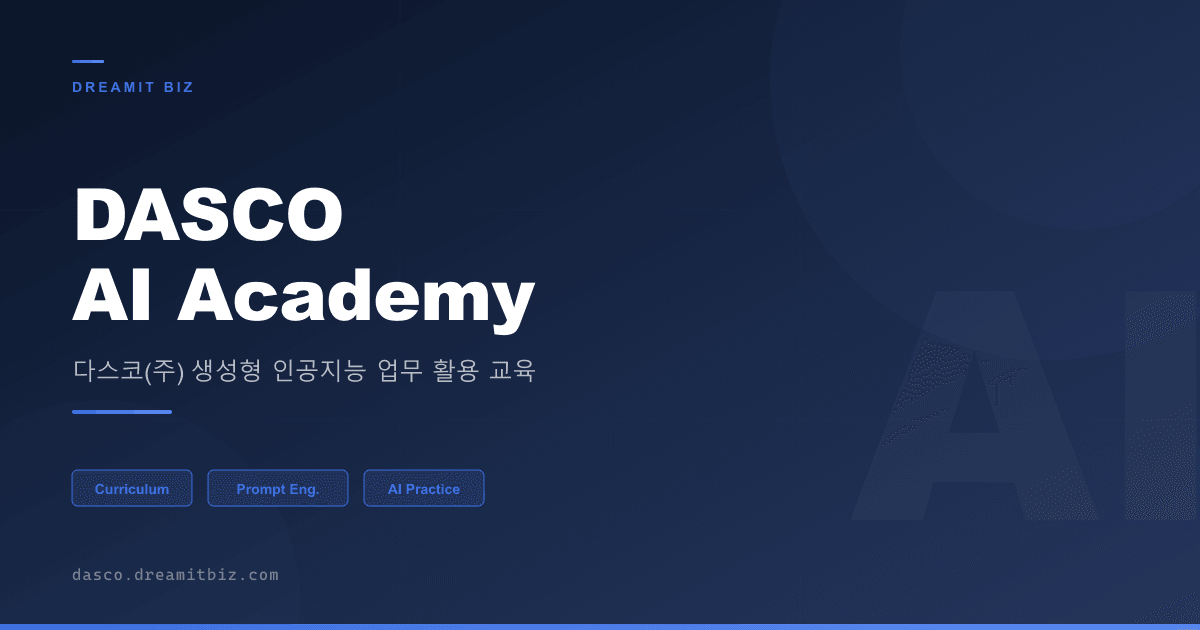
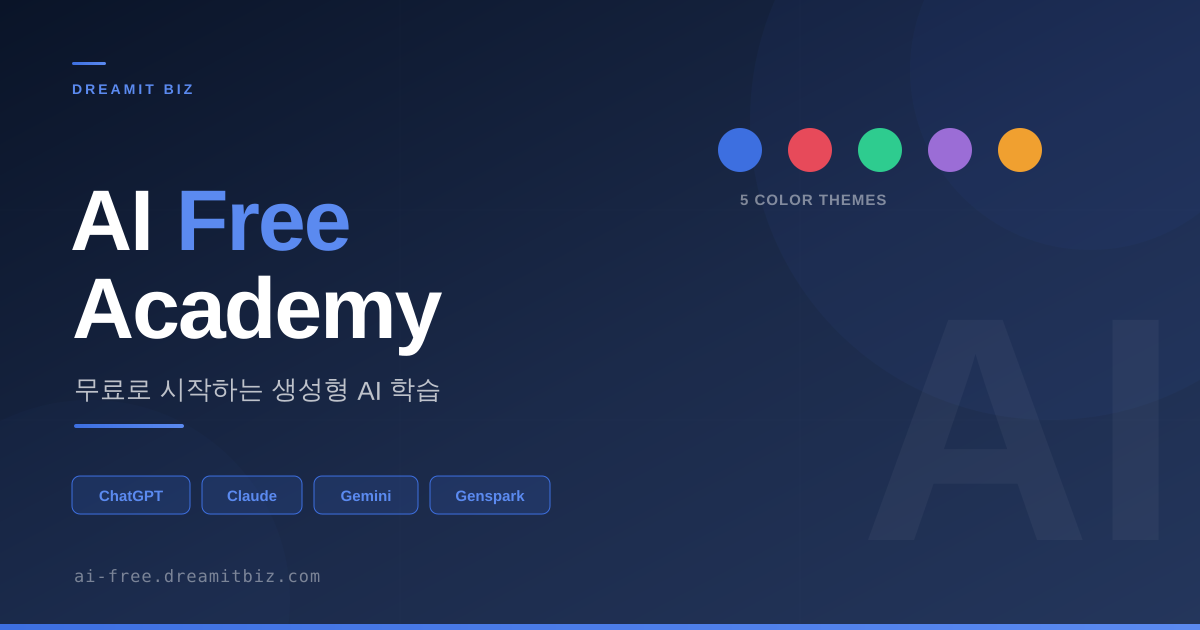
feat: OG 미리보기 이미지 생성 (다크블루 + 5색 테마)
- scripts/generate-og.cjs를 AI Free Academy용으로 재작성(sharp)
- public/og-image.png, og-image-v2.png (1200x630) 생성
- 다크블루 기본 + 5색 테마 점 + ChatGPT/Claude/Gemini/Genspark 태그
- index.html OG 태그(og:url/title/description/type/image/site_name) 정합 확인

https://claude.ai/code/session_01KpXVBYz9ahdwKi6mxWsNTB

diff --git a/DEV_LOG.md b/DEV_LOG.md
@@ -51,6 +51,11 @@
 - **[Medium]**: AuthContext 프로필 생성 try/catch, SearchModal/ImageUpload 타이머
   언마운트 정리, CodeBlock 정규식 `g` 플래그 방어
 
+### 10) OG(미리보기) 이미지 — 다크블루 + 5색 테마
+- `scripts/generate-og.cjs`를 AI Free Academy용으로 재작성(sharp)
+- 1200x630, 다크블루 배경, 5색 테마 점, 4대 AI 태그, 도메인
+- `public/og-image.png`, `og-image-v2.png` 생성, index.html OG 태그(og:url/title/description/type/image/site_name) 정합
+
 ### 9) "학습하기" 메뉴 추가 (AI 기초 ~ 프롬프트)
 - 상단 메뉴 About 다음에 「학습하기」 추가, 라우트 `/learn`
 - GuidePage(좌측 접이식 사이드바 + 마크다운)로 3개 그룹 학습자료 제작: